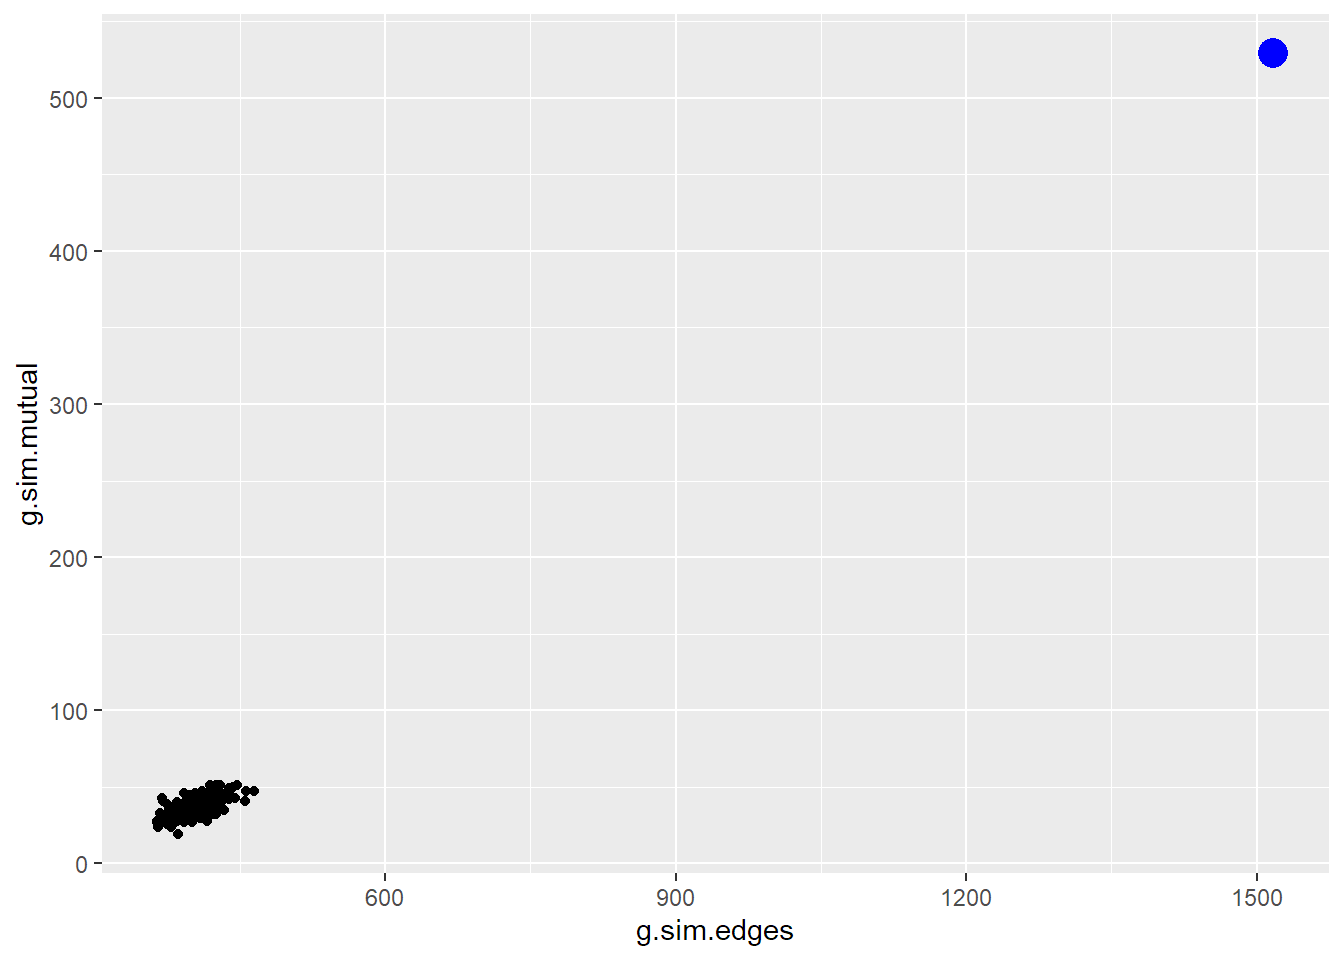
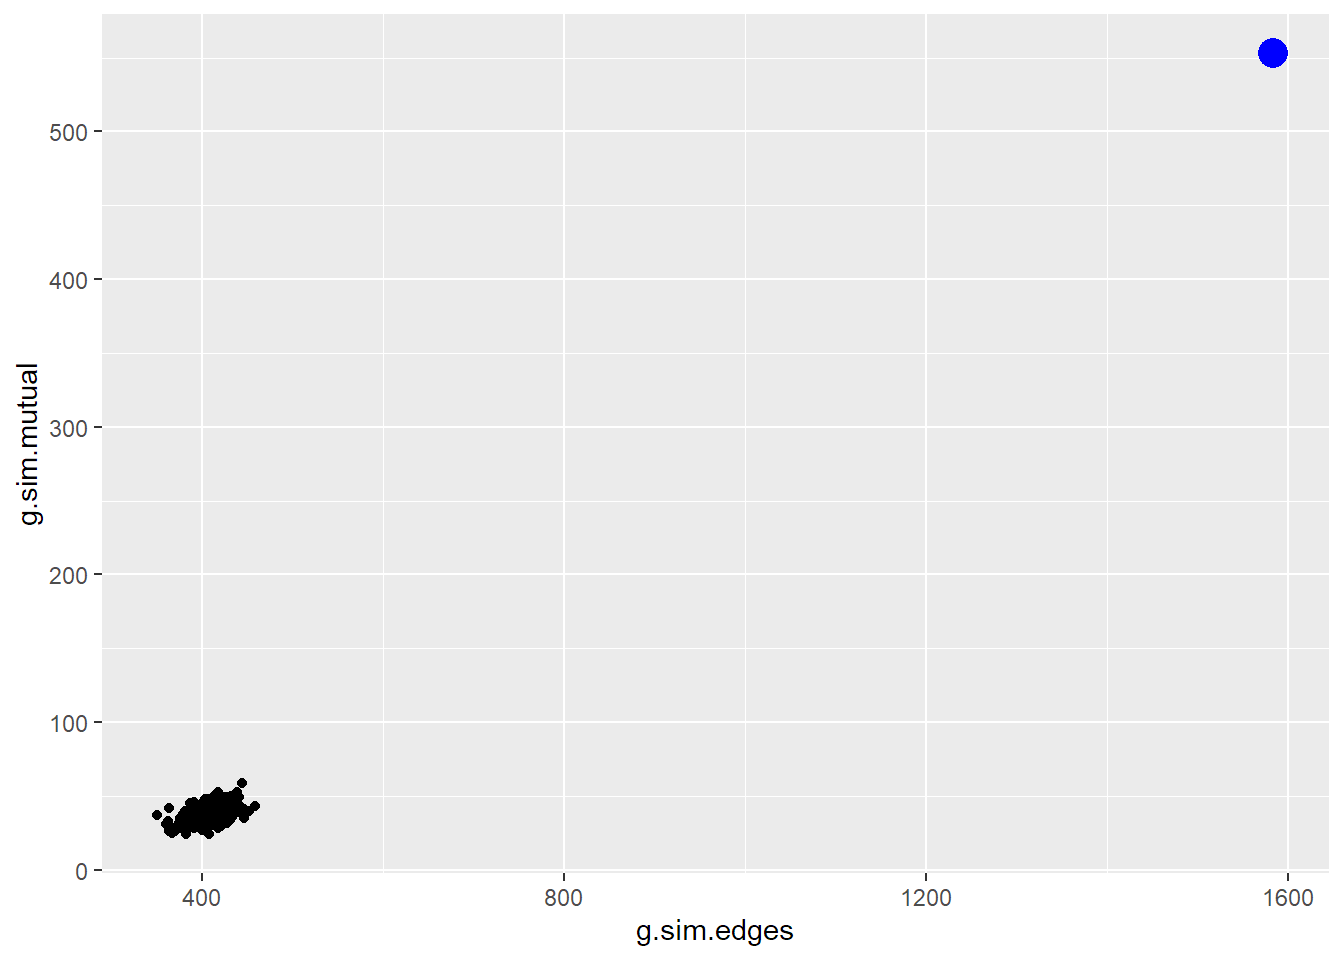
Built site for gh-pages

diff --git a/blogs/2025-05-27-ergm-intuition/index.html b/blogs/2025-05-27-ergm-intuition/index.html
@@ -112,8 +112,11 @@ pre > code.sourceCode > span > a:first-child::before { text-decoration: underlin
 <link rel="stylesheet" href="../../styles.css">
 <meta property="og:title" content="ERGM Parameter Values – Michael D. Siciliano">
 <meta property="og:description" content="Some intuition about the ERGM coefficients">
[1 lines of base64/hex data omitted]
+<meta property="og:image" content="https://m-siciliano.github.io/blogs/2025-05-27-ergm-intuition/thumbnail.png">
 <meta property="og:site_name" content="Michael D. Siciliano">
+<meta property="og:image:height" content="960">
+<meta property="og:image:width" content="1344">
+<meta property="og:image:alt" content="Simulated network graph used to illustrate how ERGM coefficients are estimated">
 </head>
 
 <body class="floating nav-fixed quarto-light">
@@ -190,7 +193,7 @@ pre > code.sourceCode > span > a:first-child::before { text-decoration: underlin
         </div>
       </div>
                           <div class="quarto-categories">
-                <div class="quarto-category">ERGM</div>
+                <div class="quarto-category">ergm</div>
               </div>
                   </div>
   </div>
@@ -205,7 +208,7 @@ pre > code.sourceCode > span > a:first-child::before { text-decoration: underlin
     <div class="quarto-title-meta-contents">
           <p class="affiliation">
               <a href="https://cuppa.uic.edu/academics/pa/">
-              Networks and Governance Lab, Department of Public Policy, Management, and Analytics , University of Illinois Chicago
+              Networks and Governance Lab, Department of Public Policy, Management, and Analytics, University of Illinois Chicago
               </a>
             </p>
         </div>
@@ -272,7 +275,7 @@ pre > code.sourceCode > span > a:first-child::before { text-decoration: underlin
 <span id="cb2-3"><a href="#cb2-3" aria-hidden="true" tabindex="-1"></a><span class="fu">summary</span>(g.true <span class="sc">~</span> edges <span class="sc">+</span> mutual) </span></code></pre></div><button title="Copy to Clipboard" class="code-copy-button"><i class="bi"></i></button></div>
 <div class="cell-output cell-output-stdout">
 <pre><code> edges mutual 
-  1517    529 </code></pre>
+  1583    553 </code></pre>
 </div>
 </div>
 <p>Based on this data we created, the observed number of edges is 1517 and there are 529 mutual ties. Let’s save these values and plot the data.</p>
@@ -305,7 +308,7 @@ pre > code.sourceCode > span > a:first-child::before { text-decoration: underlin
 <div class="code-copy-outer-scaffold"><div class="sourceCode cell-code" id="cb6"><pre class="sourceCode r code-with-copy"><code class="sourceCode r"><span id="cb6-1"><a href="#cb6-1" aria-hidden="true" tabindex="-1"></a><span class="fu">summary</span>(g.sim[[<span class="dv">1</span>]] <span class="sc">~</span> edges <span class="sc">+</span> mutual) </span></code></pre></div><button title="Copy to Clipboard" class="code-copy-button"><i class="bi"></i></button></div>
 <div class="cell-output cell-output-stdout">
 <pre><code> edges mutual 
-   390     38 </code></pre>
+   451     40 </code></pre>
 </div>
 </div>
 <p>Here, we can see we are way off of the true values. We are only producing 390 edges and only 38 mutuals. And while this is only 1 of our simulated networks, we suspect that these are likely not the correct coefficients as they are unlikely to have created our true network. To provide more insight into this and use all of our simulated data, let’s grab the count of edges and mutuals for all simulated networks and plot that distribution against the values we found in our true network. I’ll plot the true values in blue.</p>
@@ -410,7 +413,7 @@ pre > code.sourceCode > span > a:first-child::before { text-decoration: underlin
 <span id="cb12-2"><a href="#cb12-2" aria-hidden="true" tabindex="-1"></a><span class="fu">summary</span>(g.sim5[[<span class="dv">15</span>]] <span class="sc">~</span> edges <span class="sc">+</span> mutual)</span></code></pre></div><button title="Copy to Clipboard" class="code-copy-button"><i class="bi"></i></button></div>
 <div class="cell-output cell-output-stdout">
 <pre><code> edges mutual 
-  1551    551 </code></pre>
+  1538    544 </code></pre>
 </div>
 <div class="code-copy-outer-scaffold"><div class="sourceCode cell-code" id="cb14"><pre class="sourceCode r code-with-copy"><code class="sourceCode r"><span id="cb14-1"><a href="#cb14-1" aria-hidden="true" tabindex="-1"></a>g.sim.edges <span class="ot">=</span> <span class="fu">vector</span>()</span>
 <span id="cb14-2"><a href="#cb14-2" aria-hidden="true" tabindex="-1"></a><span class="cf">for</span> (i <span class="cf">in</span> <span class="dv">1</span><span class="sc">:</span><span class="dv">200</span>)</span>

diff --git a/blogs.html b/blogs.html
@@ -133,7 +133,11 @@ window.Quarto = {
 
 <link rel="stylesheet" href="styles.css">
 <meta property="og:title" content="MDS Blog – Michael D. Siciliano">
+<meta property="og:image" content="https://m-siciliano.github.io/blogs/2025-05-27-ergm-intuition/thumbnail.png">
 <meta property="og:site_name" content="Michael D. Siciliano">
+<meta property="og:image:alt" content="Simulated network graph used to illustrate how ERGM coefficients are estimated">
+<meta property="og:image:height" content="960">
+<meta property="og:image:width" content="1344">
 </head>
 
 <body class="floating nav-fixed quarto-light">
@@ -208,7 +212,7 @@ window.Quarto = {
 <div id="quarto-sidebar-glass" class="quarto-sidebar-collapse-item" data-bs-toggle="collapse" data-bs-target=".quarto-sidebar-collapse-item"></div>
 <!-- margin-sidebar -->
     <div id="quarto-margin-sidebar" class="sidebar margin-sidebar">
-    <h5 class="quarto-listing-category-title">Categories</h5><div class="quarto-listing-category category-default"><div class="category" data-category="">All <span class="quarto-category-count">(1)</span></div><div class="category" data-category="RVJHTQ==">ERGM <span class="quarto-category-count">(1)</span></div></div></div>
+    <h5 class="quarto-listing-category-title">Categories</h5><div class="quarto-listing-category category-default"><div class="category" data-category="">All <span class="quarto-category-count">(1)</span></div><div class="category" data-category="ZXJnbQ==">ergm <span class="quarto-category-count">(1)</span></div></div></div>
 <!-- main -->
 <main class="content" id="quarto-document-content">
 
@@ -237,17 +241,19 @@ window.Quarto = {
 
 <div class="quarto-listing quarto-listing-container-grid" id="listing-listing">
 <div class="list grid quarto-listing-cols-3">
-<div class="g-col-1" data-index="0" data-categories="RVJHTQ==" data-listing-date-sort="1748322000000" data-listing-file-modified-sort="1748550575681" data-listing-date-modified-sort="NaN" data-listing-reading-time-sort="7" data-listing-word-count-sort="1243">
+<div class="g-col-1" data-index="0" data-categories="ZXJnbQ==" data-listing-date-sort="1748322000000" data-listing-file-modified-sort="1786296493840" data-listing-date-modified-sort="NaN" data-listing-reading-time-sort="7" data-listing-word-count-sort="1240">
 <a href="./blogs/2025-05-27-ergm-intuition/index.html" class="quarto-grid-link">
 <div class="quarto-grid-item card h-100 card-left">
-<p class="card-img-top"><img src="blogs\2025-05-27-ergm-intuition\index_files\figure-html\unnamed-chunk-3-1.png" style="height: 150px;"  class="thumbnail-image card-img"/></p>
+<p class="card-img-top">
+<img loading="lazy" src="./blogs/2025-05-27-ergm-intuition/thumbnail.png" class="thumbnail-image card-img" style="height: 150px;" alt="Simulated network graph used to illustrate how ERGM coefficients are estimated">
+</p>
 <div class="card-body post-contents">
 <h5 class="no-anchor card-title listing-title">
 ERGM Parameter Values
 </h5>
 <div class="listing-categories">
 
-<div class="listing-category" onclick="window.quartoListingCategory('RVJHTQ=='); return false;">ERGM</div>
+<div class="listing-category" onclick="window.quartoListingCategory('ZXJnbQ=='); return false;">ergm</div>
 
 </div>
 <div class="card-text listing-description delink">
